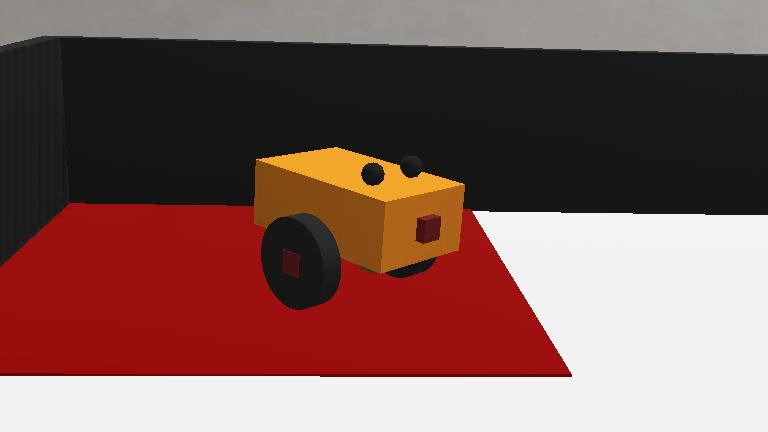
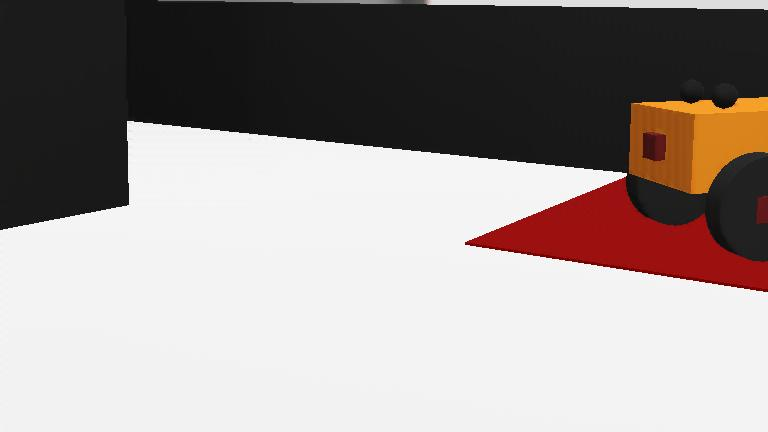
Add obstacle avoidance algorithm

diff --git a/controllers/main_controller/main_controller.py b/controllers/main_controller/main_controller.py
@@ -1,12 +1,12 @@
 """
 main_controller.py
 
-A starter controller with basic obstacle avoidance.
+Basic obstacle avoidance and maze navigation logic.
 """
 
 from controller import Robot
 
-TIME_STEP = 64
+TIME_STEP = 16
 MAX_SPEED = 6.0
 
 robot = Robot()
@@ -14,10 +14,9 @@ robot = Robot()
 # 1. Initialize Motors
 left_motor = robot.getDevice('left_wheel_motor')
 right_motor = robot.getDevice('right_wheel_motor')
+
 left_motor.setPosition(float('inf'))
 right_motor.setPosition(float('inf'))
-left_motor.setVelocity(0.0)
-right_motor.setVelocity(0.0)
 
 # 2. Initialize LEDs
 led_blue = robot.getDevice('led_blue')
@@ -34,7 +33,6 @@ ds_front.enable(TIME_STEP)
 ds_left.enable(TIME_STEP)
 ds_right.enable(TIME_STEP)
 
-# (Optional) Initialize Camera and Inertial Unit for later
 camera = robot.getDevice('camera')
 if camera:
     camera.enable(TIME_STEP)
@@ -43,22 +41,21 @@ inertial_unit = robot.getDevice('inertial_unit')
 if inertial_unit:
     inertial_unit.enable(TIME_STEP)
 
-print("Starting Basic Obstacle Avoidance...")
+print("Robot Balanced! Starting Obstacle Avoidance...")
 
 # 4. Main Control Loop
 while robot.step(TIME_STEP) != -1:
     
-    # Read sensor values
+    # Read distance sensor values
+    # In Webots, usually 1000 = very close, 0 = far away
     front_val = ds_front.getValue()
     left_val = ds_left.getValue()
     right_val = ds_right.getValue()
 
-    # The default DistanceSensor returns 1000 when an object is touching it, 
-    # and drops towards 0 the further away the object is.
-    # Let's say anything above 80 means an obstacle is too close.
-    obstacle_front = front_val > 80
-    obstacle_left = left_val > 80
-    obstacle_right = right_val > 80
+    # Threshold for detecting an obstacle
+    obstacle_front = front_val > 100
+    obstacle_left = left_val > 100
+    obstacle_right = right_val > 100
 
     # Default action is to drive straight
     left_speed = MAX_SPEED
@@ -66,8 +63,7 @@ while robot.step(TIME_STEP) != -1:
 
     # Basic Avoidance Logic:
     if obstacle_front:
-        # If there's a wall in front, turn! 
-        # We can check which side has more space to decide which way to turn.
+        # If there's a wall in front, check which side has more space
         if left_val > right_val:
             # Left wall is closer, so turn right
             left_speed = MAX_SPEED
